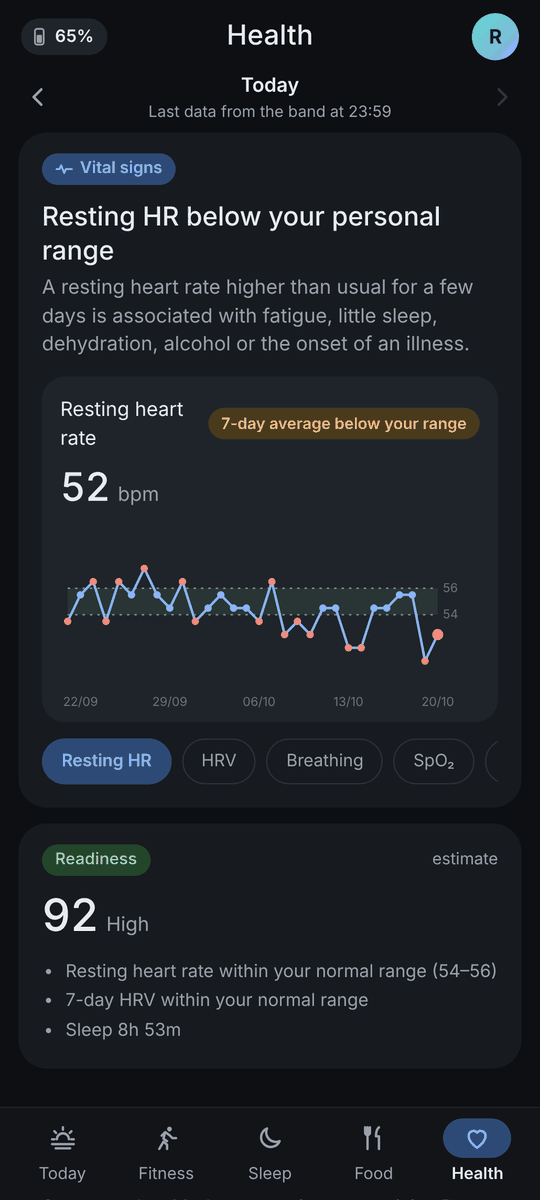
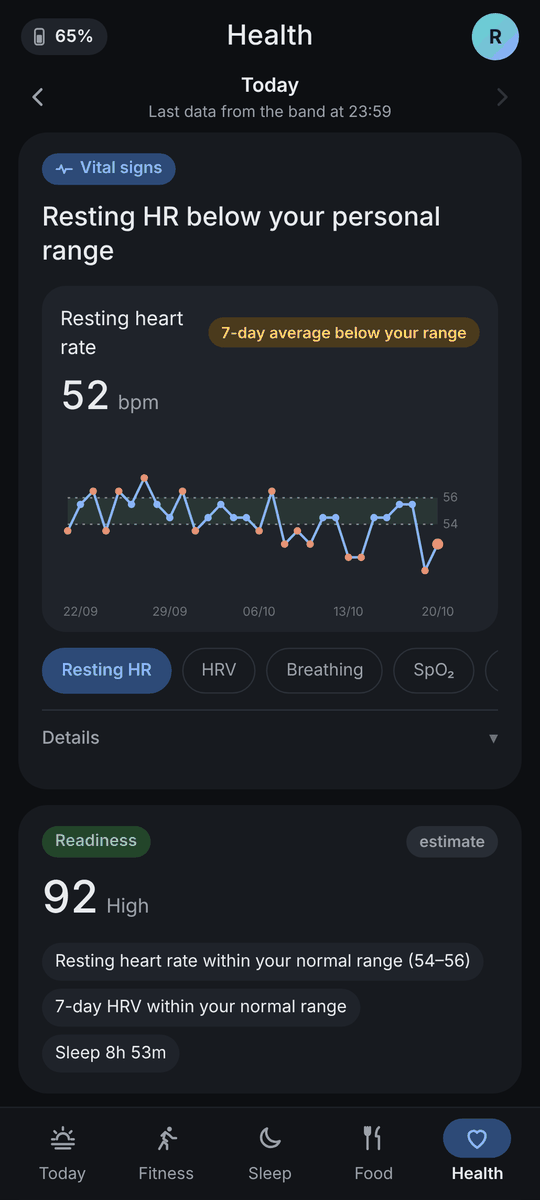
README: screenshots of the simplified interface, balance and composition
- New screenshots of Today, Sleep, Health, Fitness and Food after the
  simplification (one line per card, details one tap away), plus the
  cumulative balance and composition cards, on synthetic data.
- Two rows of three images; features table lists balance and composition.

Claude-Session: https://claude.ai/code/session_01DJePcnYMf8bJQvyrJF9mb6

diff --git a/README.md b/README.md
@@ -16,13 +16,16 @@ account and without network, in any case**: the app has no network permission an
 the phone. Every value comes with the published study or guideline it is compared against.
 
 <p align="center">
-  <img src="docs/screenshots/today.png" alt="Today: cardio minutes, steps, readiness and sleep at a glance" width="19%">
-  <img src="docs/screenshots/sleep.png" alt="Sleep: stages of the night and quality references with sources" width="19%">
-  <img src="docs/screenshots/health.png" alt="Health: resting heart rate against your personal range, readiness" width="19%">
-  <img src="docs/screenshots/fitness.png" alt="Fitness: workouts recognised from the band data, to confirm or change" width="19%">
-  <img src="docs/screenshots/food.png" alt="Food: diary with calories, macronutrients and energy balance" width="19%">
+  <img src="docs/screenshots/today.png" alt="Today: cardio minutes, steps, readiness and sleep at a glance, with one line per insight" width="30%">
+  <img src="docs/screenshots/sleep.png" alt="Sleep: stages of the night and the key points against their references" width="30%">
+  <img src="docs/screenshots/health.png" alt="Health: resting heart rate against your personal range, readiness" width="30%">
 </p>
-<p align="center"><sub>Today · Sleep · Health · Fitness · Food — screenshots taken on synthetic data</sub></p>
+<p align="center">
+  <img src="docs/screenshots/fitness.png" alt="Fitness: workouts recognised from the band data, to confirm or change" width="30%">
+  <img src="docs/screenshots/food.png" alt="Food: diary with calories, macronutrients and the day's energy balance" width="30%">
+  <img src="docs/screenshots/balance.png" alt="Food: cumulative balance over 28 days and estimated change in fat and lean mass" width="30%">
+</p>
+<p align="center"><sub>Today · Sleep · Health · Fitness · Food · Cumulative balance and composition — screenshots taken on synthetic data. Every card shows one line; explanations and sources are one tap away in "Details".</sub></p>
 
 ## Contents
 
@@ -43,6 +46,7 @@ the phone. Every value comes with the published study or guideline it is compare
 | ❤ **Health** | resting heart rate, HRV, breathing rate, SpO₂ and temperature against *your* normal range, plus a readiness estimate |
 | 🏃 **Fitness** | workouts recognised from steps and heart rate (walking, running, strength…) or added by hand, training load, WHO weekly cardio goal, your own training plan |
 | 🍎 **Food** | food diary with calories and macronutrients, energy balance, saved meals and recipes, barcode scanner |
+| ⚖ **Balance and composition** | deficit or surplus summed over a week, 28 days, a month or since a date; estimated change in fat and lean mass from your weigh-ins (Forbes/Hall model, with its range and limits) |
 | 🔎 **Food databases on the phone** | generic foods from USDA FoodData Central and ANSES Ciqual (with Italian names) shipped with the app; optionally packaged products from Open Food Facts, imported from a file |
 | 📚 **Sources everywhere** | every threshold links its study; conflicts of interest of the sources are shown |
 | 🌍 **English and Italian** | system language by default, selectable in the Profile |
